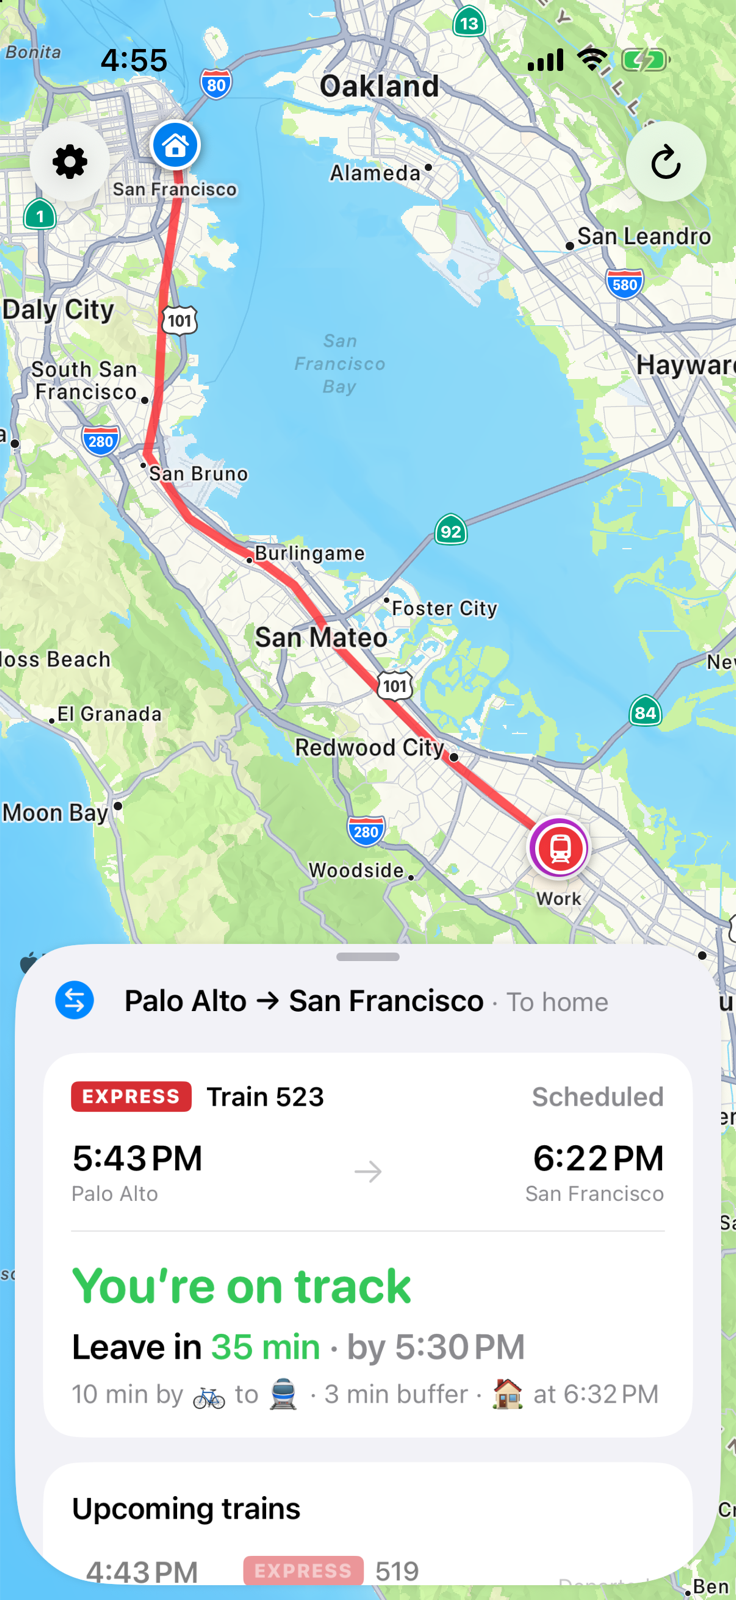
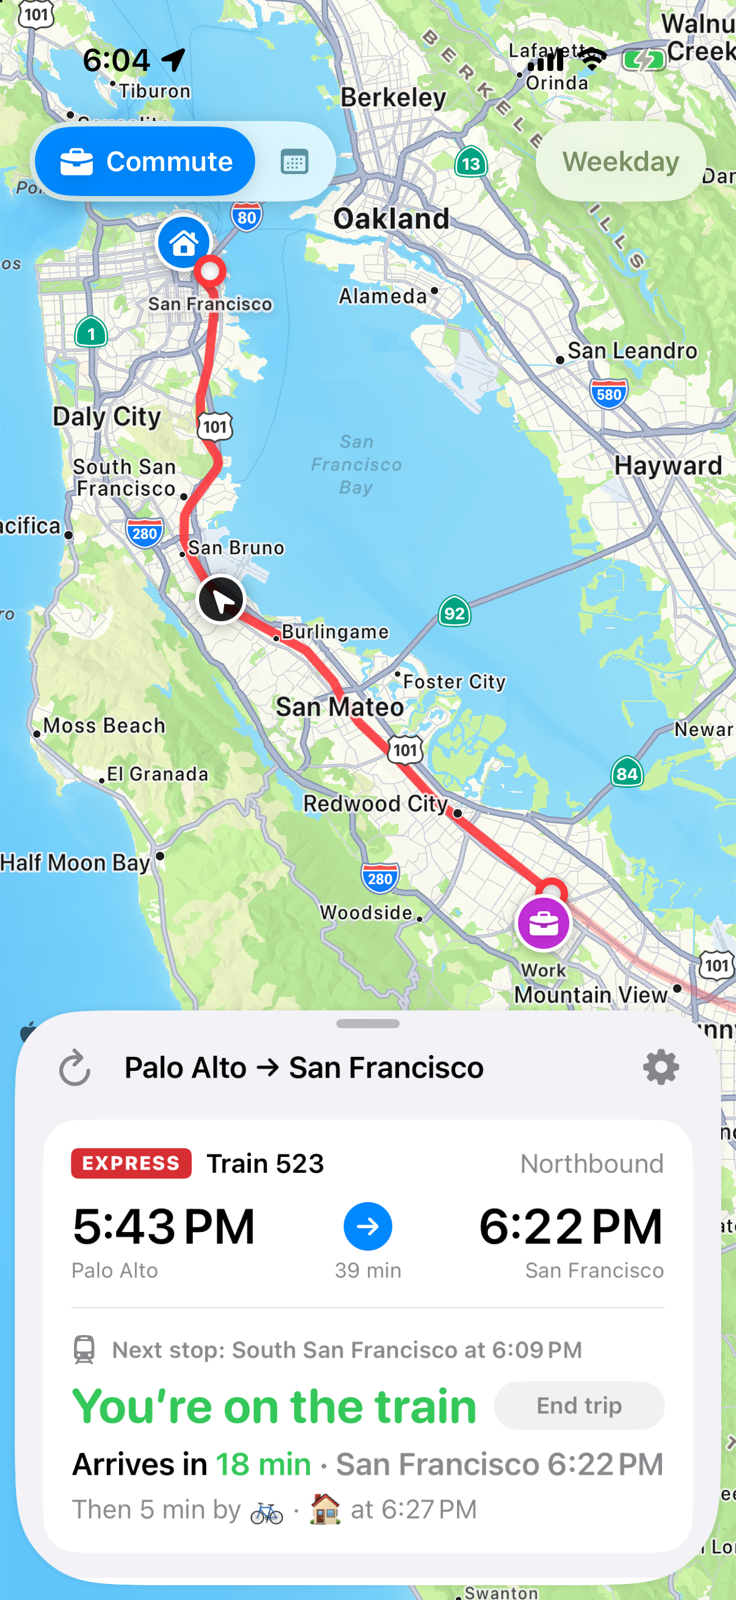
Update README and screenshots

diff --git a/README.md b/README.md
@@ -8,11 +8,11 @@ A Caltrain commute planner for people who bike (or walk) to the station.
 It picks your train, counts down to when you need to be out the door, and
 rolls you onto the next train when you miss one.
 
-<img src="docs/screenshots/on-track.png" width="260" alt="You're on track: leave in 37 minutes for Express 510">
+<img src="docs/screenshots/on-track.png" width="260" alt="You're on track: leave in 37 minutes for Express 506">
 &nbsp;
-<img src="docs/screenshots/leave-now.png" width="260" alt="Leave now: too late in 2 minutes">
+<img src="docs/screenshots/leave-now.png" width="260" alt="Leave now: too late in 3 minutes">
 &nbsp;
-<img src="docs/screenshots/next-train.png" width="260" alt="Too late for the 8:20, rolled to Local 114, with the upcoming trains list">
+<img src="docs/screenshots/next-train.png" width="260" alt="Too late for the 7:20, rolled to Local 110, with its stops and the upcoming trains">
 
 </div>
 
@@ -37,8 +37,8 @@ Commute works backwards from the train, using how long *you* take to get to the 
 - **Missed it? No drama.** Past "too late", it moves to the next train you can still catch and tells you when to leave for that one.
 - **Alerts.** "Get ready" and "Leave now" notifications, even with the app closed. With location access, the app notices you've left and the rest of the trip stays quiet; on the way it shows when your train leaves, on board when it arrives, and a heads-up comes just before your stop.
 - **Lock Screen countdown.** A Live Activity counts down to leaving, to the train, then to arrival, in the Dynamic Island too.
-- **Your call.** Long-press any train in the list to pin it instead; tap it to see its stops. When an express would get you there sooner without leaving earlier, the card says so.
-- **Commute or schedule.** On commute days around your target times the app plans your trip; on weekends, holidays and in between it opens as a plain timetable between any two stations. One tap switches.
+- **Your call.** Long-press a train in the list to pin it instead, or to say you're on it; tap it to see its stops. When an express would get you there sooner without leaving earlier, the card says so.
+- **Commute or schedule.** On commute days around your target times the app plans your trip; on weekends, holidays and in between it opens as a plain timetable between any two stations. One tap switches. Until you add your home and work addresses, it's a timetable only.
 - **Delays and cancellations.** Predicted times replace the timetable; a cancelled target train hands over to the next one. The card says which schedule runs today: weekday, weekend or holiday.
 
 ## Features
@@ -48,15 +48,17 @@ Commute works backwards from the train, using how long *you* take to get to the 
 | 🚲 **Bike or walk** | Your door-to-platform minutes for each end, with an Apple Maps estimate to start from. Shows when you'll actually reach the door. |
 | 📅 **Real timetable** | Downloads Caltrain's published schedule on first launch and keeps it on the phone. Refresh any time in Settings. |
 | 🚄 **Train types** | Local, Limited, Express, South County. Turn off the ones you'd never take, and they disappear from planning. |
-| 🗺 **Map** | Your ride drawn along the real Caltrain track, with your train gliding along it (its scheduled position, or live with the server). |
-| 🔁 **Both directions** | Follows the morning trip until four hours after your target, then the evening one; tap ⇆ to switch by hand. |
-| 🚗 **Car check** | Driving time against free-flow traffic, for days when the train isn't the answer. |
+| 🗺 **Map** | Your ride drawn along the real Caltrain track, the rest of the train's route faintly beyond it, and your train gliding along (its scheduled position, or live with the server). |
+| 🔁 **Both directions** | Follows the morning trip until four hours after your target, then the evening one; tap the arrow on the card to switch by hand. |
+| 🚗 **Car check** | Driving time against free-flow traffic, for days when the train isn't the answer. Tap for directions in Apple Maps, or hold for Google Maps. |
 | ⚙ **All 31 stations** | Pick an address and the nearest station is selected; override it if you ride to a faster stop. |
 
 <div align="center">
-<img src="docs/screenshots/evening.png" width="260" alt="Evening commute, to home">
+<img src="docs/screenshots/evening.png" width="260" alt="Evening commute: on the train home, next stop and arrival">
 &nbsp;
-<img src="docs/screenshots/settings.png" width="260" alt="Settings: places, stations, target leave times">
+<img src="docs/screenshots/schedule.png" width="260" alt="Schedule mode on a Saturday: next trains from Palo Alto to San Francisco">
+&nbsp;
+<img src="docs/screenshots/settings.png" width="260" alt="Settings: train data, places, stations, travel times">
 </div>
 
 ## How it fits together
@@ -77,11 +79,11 @@ flowchart LR
     maps --> app
 ```
 
-The app has two modes, switched in Settings:
+The app is built for two data sources:
 
 - **Standalone** (default): Caltrain's timetable on the phone, live delays and cancellations from Caltrain's public feed (fetched only around a trip, at most every few minutes), alerts scheduled by the app. Nothing to host.
-- **Server**: point the app at your Commute server for live delays and push notifications that follow them.
-  If the server can't be reached, the app falls back to the timetable.
+- **Server** (planned): your Commute server for live delays and push notifications that follow them,
+  falling back to the timetable when it can't be reached. The code is in place; Settings offers only standalone for now.
 Everything runs on free APIs; no billing account anywhere.
 
 ## Repository

diff --git a/client/README.md b/client/README.md
@@ -96,7 +96,7 @@ station, 3 min buffer, 20 min prep). The same applies to the evening trip from w
 | Next train (blue) | away from home or work with no trip under way, e.g. after End trip | "Departs in 4 min", On this train |
 
 Schedule mode shows "Next train · Departs in…" for the chosen stations, with the train after it.
-`-debugNow <ISO 8601>`, `-debugTrip <number|none|ended>` and `-debugPanel compact|expanded` launch
+`-debugNow <ISO 8601>`, `-debugTrip <number|none|ended>` and `-debugPanel compact|collapsed|expanded` launch
 options reproduce each state in the simulator.
 
 ## Run
@@ -112,6 +112,11 @@ Debug launch arguments (scheme → Run → Arguments) for screenshots and testin
 
 ```
 -debugNow 2026-10-19T07:45:00-07:00   # fixed clock that then ticks
--debugPanel collapsed|expanded       # initial sheet position
+-debugPanel compact|collapsed|expanded   # initial sheet position
+-debugTrip <train number>|none|ended  # a trip under way on that train, or none
 -debugSettings YES                    # open Settings once loaded
 ```
+
+The screenshots in `docs/screenshots` are Monday 2026-10-26 (on track 6:35, leave now 7:12:10,
+missed 7:16:30 expanded, on the train 18:04 with `-debugTrip 523`), Saturday 2026-10-31 10:30 for
+Schedule, and Settings at 6:35, with home in San Francisco and work at Stanford.
